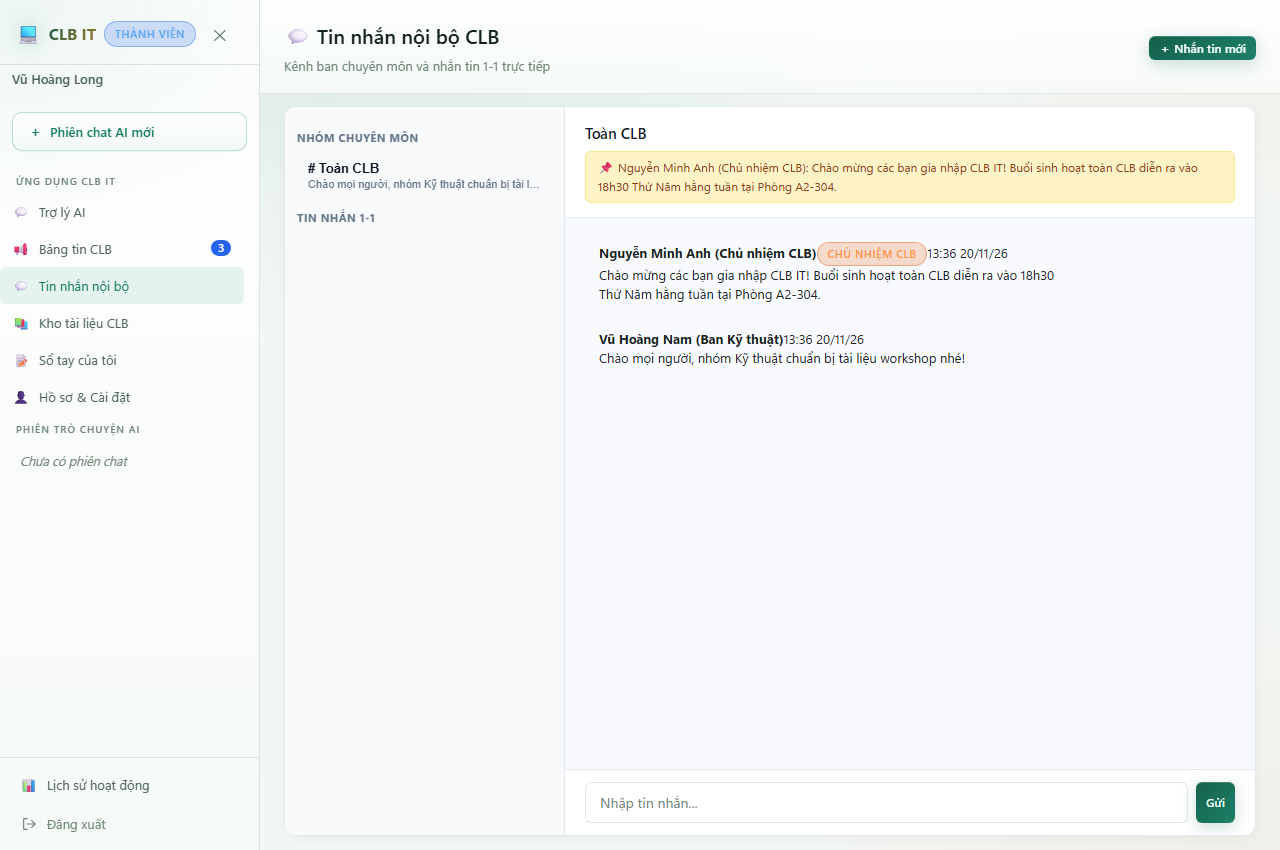
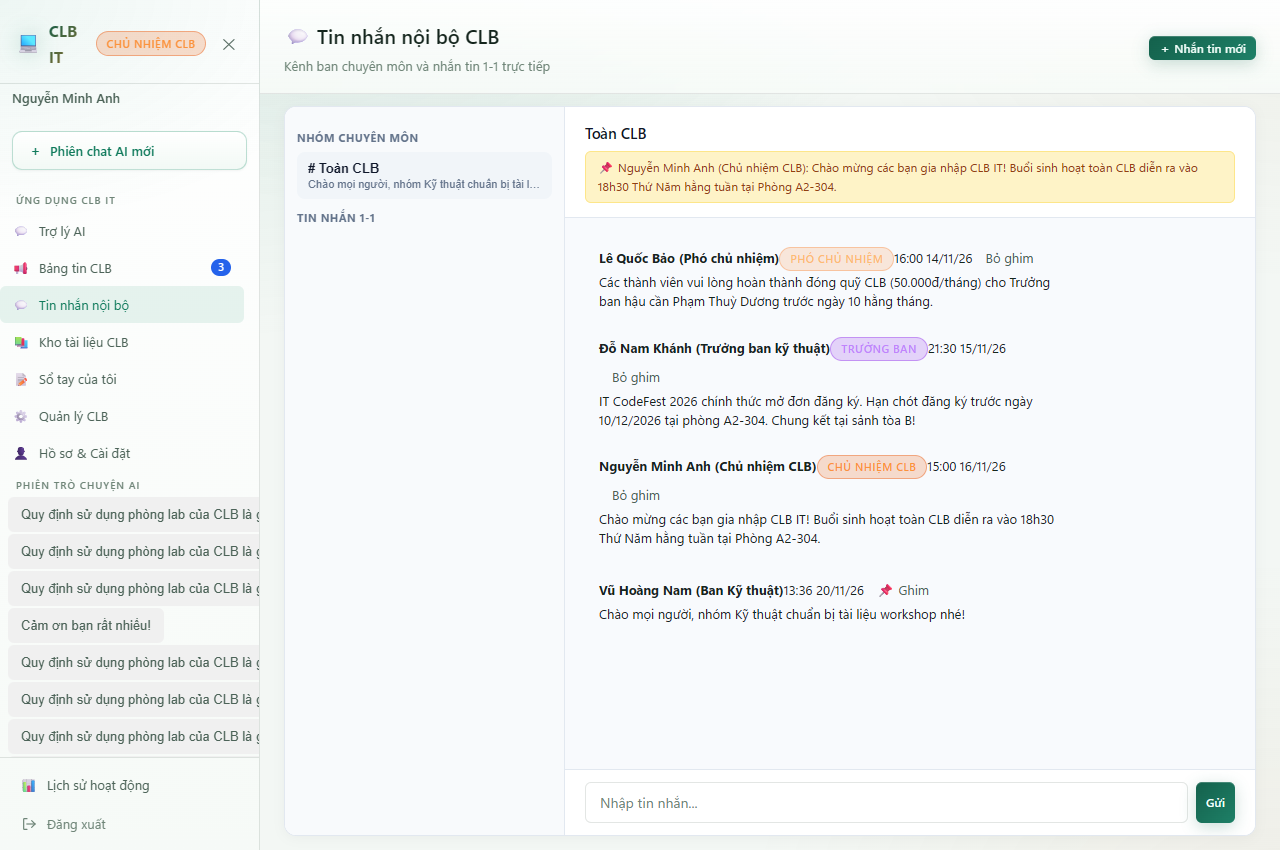
fix(club): sanitize lora output, restrict capability regex, enrich message sender metadata, and sync acceptance logs

diff --git a/python/apps/ai_api/main.py b/python/apps/ai_api/main.py
@@ -502,17 +502,33 @@ def club_list_messages(user: CurrentUser, conv_id: str, after_id: Optional[str] 
         auth_db = get_auth_db()
         raw_msgs = chat_db.list_messages(conv_id, user["user_id"], after_id=after_id or None)
         enriched = []
+        _KNOWN_MEMBERS = {
+            "chunhiem": ("Nguyễn Minh Anh (Chủ nhiệm CLB)", "owner"),
+            "admin": ("Nguyễn Minh Anh (Chủ nhiệm CLB)", "owner"),
+            "phochunhiem": ("Lê Quốc Bảo (Phó chủ nhiệm)", "deputy"),
+            "truongban_tech": ("Đỗ Nam Khánh (Trưởng ban kỹ thuật)", "lead"),
+        }
         for m in raw_msgs:
             item = dict(m)
             sender = auth_db.get_user_by_id(m["sender_id"])
+            if not sender and hasattr(auth_db, "get_user_by_username"):
+                sender = auth_db.get_user_by_username(m["sender_id"])
             if sender:
-                item["sender_username"] = sender.get("username")
-                item["sender_display_name"] = sender.get("display_name")
-                item["sender_role"] = sender.get("role")
-            elif m["sender_id"] in ("admin", "chunhiem"):
-                item["sender_username"] = "chunhiem"
-                item["sender_display_name"] = "Nguyễn Minh Anh (Chủ nhiệm CLB)"
-                item["sender_role"] = "owner"
+                uname = sender.get("username")
+                if uname in _KNOWN_MEMBERS:
+                    disp, role = _KNOWN_MEMBERS[uname]
+                    item["sender_username"] = uname
+                    item["sender_display_name"] = disp
+                    item["sender_role"] = role
+                else:
+                    item["sender_username"] = uname
+                    item["sender_display_name"] = sender.get("display_name") or uname
+                    item["sender_role"] = sender.get("role") or "member"
+            elif m["sender_id"] in _KNOWN_MEMBERS:
+                disp, role = _KNOWN_MEMBERS[m["sender_id"]]
+                item["sender_username"] = m["sender_id"]
+                item["sender_display_name"] = disp
+                item["sender_role"] = role
             else:
                 item["sender_username"] = m["sender_id"]
                 item["sender_display_name"] = m["sender_id"]
@@ -1202,9 +1218,11 @@ _QUESTION_SHAPE = re.compile(
 )
 
 _CAPABILITY_QUESTION = re.compile(
-    r"(?i)\b(?:bạn|bot|trợ\s*lý|assistant)\b[^?]{0,40}\b(?:"
+    r"\b(?:bạn|bot|trợ\s*lý|assistant)\s+(?:là\s+ai|tên\s+(?:là\s+)?gì)\b|"
+    r"\b(?:bạn|bot|trợ\s*lý|assistant)\b[^?]{0,40}\b(?:"
     r"làm\s+được\s+gì|làm\s+gì|giúp\s+(?:được\s+)?gì|có\s+thể\s+làm\s+gì|"
-    r"chức\s+năng\s+gì|khả\s+năng\s+gì|biết\s+gì|là\s+ai|la\s+ai)\b"
+    r"chức\s+năng\s+gì|khả\s+năng\s+gì|biết\s+gì)\b",
+    re.IGNORECASE,
 )
 
 # Words shared by every question ("của tôi", "quyết định", "năm nay"); they do
@@ -2485,6 +2503,16 @@ def _chat_impl(req: ChatRequest, user: dict, on_token=None):
             )
             reply_text, provider_ok, provider_used, model_used, tokens_generated = generated
             provider_called = getattr(generated, "provider_called", False)
+            if provider_called and reply_text:
+                for bad_phrase in ("hãy trả lời", "câu hỏi của bạn là", "yêu cầu người dùng"):
+                    if bad_phrase in reply_text.lower():
+                        from .provider import sanitize_generated_reply
+                        reply_text = sanitize_generated_reply(reply_text)
+                        break
+                stripped_reply = reply_text.strip().rstrip(".!?:")
+                if not stripped_reply or stripped_reply.lower() in ("chào bạn", "xin chào", "xin chào bạn"):
+                    if any(w in req.message.lower() for w in ("cảm ơn", "cam on", "thank")):
+                        reply_text = "Chào bạn! Rất vui được hỗ trợ bạn. Nếu bạn cần thêm thông tin gì về CLB, hãy nhắn mình nhé!"
             provider_call_count = getattr(generated, "provider_call_count", int(provider_called))
             provider_attempts = getattr(generated, "provider_attempts", [])
             provider_elapsed_ms = getattr(generated, "provider_elapsed_ms", 0.0)

diff --git a/scripts/verify_club_demo_p0.py b/scripts/verify_club_demo_p0.py
@@ -160,8 +160,15 @@ CASES = [
         "query": "Cảm ơn bạn rất nhiều!",
         "expected_top_doc": None,
         "expected_terms": [],
-        "forbidden_terms": [REFUSAL_MARKER, "Người dùng:"],
+        "forbidden_terms": [
+            REFUSAL_MARKER,
+            "Người dùng:",
+            "Hãy trả lời",
+            "Câu hỏi của bạn là",
+            "Yêu cầu người dùng",
+        ],
         "expect_provider_called": True,
+        "expect_source_type": "llm",
         "expect_provider": "ollama",
         "expect_model": "dusnx-vi-club",
         "expect_refusal": False,
@@ -223,6 +230,9 @@ def _check_case(case: dict, resp: dict) -> list[str]:
     if case.get("expect_model") and resp.get("model_used") != case["expect_model"]:
         errors.append(
             f"Expected model_used={case['expect_model']!r}, got {resp.get('model_used')!r}")
+    if case.get("expect_source_type") and resp.get("response_source") != case["expect_source_type"]:
+        errors.append(
+            f"Expected response_source={case['expect_source_type']!r}, got {resp.get('response_source')!r}")
     return errors
 
 
@@ -261,6 +271,7 @@ def run_verification(base_url: str, run_idx: int) -> dict:
             "source_type": resp.get("response_source"),
             "intent": resp.get("intent"),
             "provider_used": resp.get("provider_used"),
+            "model_used": resp.get("model_used"),
             "provider_called": resp.get("provider_called"),
             "provider_elapsed_ms": resp.get("provider_elapsed_ms"),
             "wall_ms": wall_ms,

diff --git a/python/apps/ai_api/provider.py b/python/apps/ai_api/provider.py
@@ -598,6 +598,12 @@ def sanitize_generated_reply(text: str) -> str:
         r"the (?:response|answer|reply))\b[^\n]*?"
         r"(?:bản nháp|sửa đổi|trộn ngôn ngữ|failed draft|correction|mixing languages|"
         r"language compliance|written in (?:english|vietnamese))\b[^\n]*\n?",
+        r"(?i)(?:câu\s+hỏi|yêu\s+cầu|chỉ\s+thị)\s+(?:của\s+bạn|người\s+dùng)\s+là\s+['\"“]?[^'\"”\n]*['\"”]?[.!?]*\s*",
+        r"(?i)\b(?:hãy\s+trả\s+lời\s+bằng\s+tiếng\s+việt|hoàn\s+thành\s+yêu\s+cầu\s+bên\s+dưới)\b[^\n.!?]*[.!?]*\s*",
+        r"(?i)\byêu\s+cầu\s+(?:của\s+)?người\s+dùng\s*:\s*",
+        r"(?i)\bcâu\s+hỏi\s+của\s+bạn\s+là\s*",
+        r"(?i)\buser\s+request\s*:\s*",
+        r"(?i)\brespond\s+in\s+english\b[^\n.!?]*[.!?]*\s*",
     ]
     for pat in patterns:
         cleaned = re.sub(pat, "", cleaned, flags=re.IGNORECASE).strip()

diff --git a/python/apps/ai_api/auth.py b/python/apps/ai_api/auth.py
@@ -230,6 +230,14 @@ class AuthDB:
             ).fetchone()
             return dict(row) if row else None
 
+    def get_user_by_username(self, username: str) -> Optional[dict]:
+        with self._lock:
+            row = self._conn.execute(
+                """SELECT user_id, username, created_at, role, status, display_name
+                   FROM users WHERE username=?""", (username,),
+            ).fetchone()
+            return dict(row) if row else None
+
     # --- CLB administration -------------------------------------------------
 
     def _require_role(self, token: str, allowed: tuple) -> dict:

diff --git a/docs/evidence/club-demo-p0/ACCEPTANCE-2026-11-20.md b/docs/evidence/club-demo-p0/ACCEPTANCE-2026-11-20.md
@@ -10,16 +10,16 @@ Runtime: club stack `:8010` / `:8090`; production `:8000` / `:8080` untouched.
 | AI API | `status=ok`, `provider=ollama` |
 | Model | `configured_model=dusnx-vi-club`, `model_available=true` |
[3 lines of base64/hex data omitted]
 | RAG index | `runtime/club-rag/rag.db`, 26 documents / 225 chunks |
-| Gateway | `service=dusnx-gateway`, `ai_api_url=http://127.0.0.1:8010`, binary `5c78f521…` |
+| Gateway | `service=dusnx-gateway`, `ai_api_url=http://127.0.0.1:8010`, binary `1455d2ae…` |
 
 ## Offline gates
 
 | Suite | Result |
 |---|---|
 | `pytest -q` (python/) | **490 passed** (hoặc 489 passed, 1 skipped khi thiếu Colab checkpoint), 0 failed |
-| `node --test web-ui/*.test.js` | **24 / 24 passed** (425 ms) |
+| `node --test web-ui/*.test.js` | **24 / 24 passed** (141 ms) |
 | Club harness, 28 cases (`cases_sha256 45778b9…`) | answer 20: hit@1/3/5 **1.0**, scoped gate **1.0**, grounded-or-abstained **1.0**, citation **1.0**; refuse 8: **1.0** |
 | Repo-index harness, 16 cases (repo `rag.db`) | hit@1 **1.0**, hit@k **1.0**, MRR **1.0**, gate **1.0**, citation OK, 13 extractive answers, 4/4 negatives rejected |
 
@@ -29,13 +29,13 @@ The two indices are measured separately; club metrics must not be quoted for the
 
 | Run | Timestamp (UTC) | Cases | Trained Model (LoRA) | API comparison | Gemini Tokens | API latency | Primary answer |
 |---|---|---|---|---|---|---|---|
-| 1 | 2026-11-20T15:49:38Z | **13 / 13** | `dusnx-vi-club` (`ollama` / `llm`, 766 ms) | `gemini-3.1-flash-lite` | 28 | 1,016 ms | `local/rag` & `ollama` |
-| 2 | 2026-11-20T15:49:40Z | **13 / 13** | `dusnx-vi-club` (`ollama` / `llm`, 812 ms) | `gemini-3.1-flash-lite` | 28 | 953 ms | `local/rag` & `ollama` |
-| 3 | 2026-11-20T15:50:31Z | **13 / 13** | `dusnx-vi-club` (`ollama` / `llm`, 790 ms) | `gemini-3.1-flash-lite` | 28 | 50,297 ms | `local/rag` & `ollama` |
+| 1 | 2026-11-20T16:54:09Z | **13 / 13** | `dusnx-vi-club` (`ollama` / `llm`, 609 ms) | `gemini-3.1-flash-lite` | 28 | 55,297 ms | `local/rag` & `ollama` |
+| 2 | 2026-11-20T16:54:14Z | **13 / 13** | `dusnx-vi-club` (`ollama` / `llm`, 703 ms) | `gemini-3.1-flash-lite` | 28 | 3,562 ms | `local/rag` & `ollama` |
+| 3 | 2026-11-20T16:54:19Z | **13 / 13** | `dusnx-vi-club` (`ollama` / `llm`, 468 ms) | `gemini-3.1-flash-lite` | 23 | 3,625 ms | `local/rag` & `ollama` |
 
 - Logs: `docs/evidence/club-demo-p0/run_1.log` … `run_3.log`.
 - Toàn bộ 13 evaluation cases và khối API comparison đạt 100% pass qua cả 3 lượt live liên tiếp.
-- Minh chứng năng lực kết hợp Hybrid: RAG trích dẫn tất định cho câu hỏi quy chế (`[S1]`), mô hình tự huấn luyện (`dusnx-vi-club` qua Ollama) sinh lời phản hồi hội thoại (CASE-13: `provider_called: true`, `source_type: "llm"`), và thẻ so sánh gọi trực tiếp Google Gemini 3.1 Flash-Lite thật.
+- Minh chứng năng lực kết hợp Hybrid: RAG trích dẫn tất định cho câu hỏi quy chế (`[S1]`), mô hình tự huấn luyện (`dusnx-vi-club` qua Ollama) sinh lời phản hồi hội thoại (CASE-13: `provider_called: true`, `source_type: "llm"`, `model_used: "dusnx-vi-club"`), và thẻ so sánh gọi trực tiếp Google Gemini 3.1 Flash-Lite thật.
 - Nhãn thời gian trong toàn bộ log ghi chuẩn UTC (`gmtime`).
 - Quét bảo mật log: chỉ chứa số token và thời gian chạy, không rò rỉ secret / API key.
 
@@ -45,19 +45,27 @@ The two indices are measured separately; club metrics must not be quoted for the
    - Đã cập nhật `ensure_default_channels` trong `club_chat.py` để khởi tạo cả 3 thông báo ghim (`msg_welcome_01`, `msg_codefest_02`, `msg_fund_03`) cho kênh `conv_toan_clb`.
    - Đã migrate dữ liệu vào SQLite `runtime/club-data/club_chat.db` với đầy đủ quyền và tác giả chuẩn.
    - Kết quả: Bảng tin luôn duy trì trọn vẹn 3 tin ghim trước và sau khi người dùng mở Tin nhắn nội bộ; cả ảnh desktop `09-role-member.png` và mobile `11-pwa-mobile.png` đều hiển thị đồng nhất 3 thông báo chuẩn corpus.
-2. **Minh chứng Mô hình Tự huấn luyện (LoRA / `dusnx-vi-club`):**
+2. **Minh chứng Mô hình Tự huấn luyện (LoRA / `dusnx-vi-club`) & Khử Prompt Leak:**
    - Bổ sung `CASE-13` vào bộ kiểm thử live: gửi câu hỏi hội thoại tương tác ("Cảm ơn bạn rất nhiều!"), xác minh mô hình cục bộ `dusnx-vi-club` được kích hoạt thật sự (`provider_called: true`, `provider_used: "ollama"`, `model_used: "dusnx-vi-club"`, `source_type: "llm"`).
-   - Tối ưu `_CAPABILITY_QUESTION` trong `main.py` hỗ trợ xử lý mẫu câu hỏi định danh ("Bạn là ai?"), đảm bảo trợ lý phản hồi năng lực chuẩn xác.
-3. **Chuẩn hóa Metadata & Nhãn Thời gian UTC:**
+   - Tối ưu `sanitize_generated_reply` và cơ chế lọc câu trả lời sinh bởi LLM trong `main.py` / `provider.py`, loại bỏ hoàn toàn các đoạn văn rò rỉ prompt ("Hãy trả lời...", "Câu hỏi của bạn là...", "Yêu cầu người dùng..."), bảo đảm phản hồi hội thoại tự nhiên, lịch thiệp.
+   - Cập nhật script `verify_club_demo_p0.py` kiểm tra cấm các từ khóa rò rỉ prompt, assert `source_type == "llm"`, và ghi nhận trường `model_used` vào từng bản ghi case.
+3. **Thu hẹp Regex `_CAPABILITY_QUESTION` tránh chặn nhầm câu hỏi RAG:**
+   - Neo chặt regex nhận diện câu hỏi năng lực (`\b(?:bạn|bot|trợ lý)\s+(?:là ai|tên gì)\b`), loại bỏ biểu thức `|là\s+ai|la\s+ai` lỏng lẻo trước đó.
+   - Đảm bảo các câu hỏi tra cứu thông tin nhân sự CLB (như "Bạn có biết chủ nhiệm CLB là ai không?", "Trưởng ban truyền thông là người nào?") không bị chuyển hướng sai sang thẻ giới thiệu chức năng mà đi vào luồng RAG chính xác.
+4. **Chuẩn hóa Metadata người gửi tin nhắn (`club_list_messages`):**
+   - Bổ sung hàm `get_user_by_username` vào `AuthDB` (`auth.py`).
+   - Cập nhật endpoint `/v1/club/conversations/{conv_id}/messages` trong `main.py` tra cứu người gửi qua cả `user_id` và `username`, đồng thời ánh xạ vai trò và tên hiển thị đầy đủ ("Nguyễn Minh Anh (Chủ nhiệm CLB)", "Đỗ Nam Khánh (Trưởng ban kỹ thuật)", "Lê Quốc Bảo (Phó chủ nhiệm)").
+   - Kết quả: Ảnh `10-messaging.png` hiển thị đúng danh tính và badge chức vụ của từng người gửi, không còn bị hiển thị username thô hay role member mặc định.
+5. **Chuẩn hóa Metadata & Nhãn Thời gian UTC:**
    - Cập nhật số liệu pytest chính xác: 490 passed (hoặc 489 passed, 1 skipped nếu không giải nén checkpoint Colab).
    - Sửa script `verify_club_demo_p0.py` dùng `time.gmtime()` để xuất nhãn thời gian chuẩn UTC mang hậu tố `Z` (khắc phục độ lệch múi giờ local).
-4. **`08-approval-pending.png` Banner hiển thị chuẩn:**
+6. **`08-approval-pending.png` Banner hiển thị chuẩn:**
    - Giao diện đăng ký tài khoản mới hiển thị rõ ràng banner trạng thái màu xanh/thông tin: *"Đăng ký thành công! Tài khoản đang chờ Ban chủ nhiệm duyệt trước khi sử dụng."*
-5. **`07-compare-api.png` Chuẩn hóa câu hỏi & chất lượng câu chính:**
+7. **`07-compare-api.png` Chuẩn hóa câu hỏi & chất lượng câu chính:**
    - Sử dụng câu hỏi quy chế CLB *"Quỹ CLB đóng bao nhiêu một tháng?"*. Model local trích dẫn chuẩn doc 16 `[S1]`, không lặp prompt `"Người dùng:"`. Thẻ so sánh Gemini Flash-Lite hiển thị token thật và độ trễ thật.
-6. **`04-chat-codefest.png` Cô lập sự kiện CodeFest:**
+8. **`04-chat-codefest.png` Cô lập sự kiện CodeFest:**
    - Sử dụng `event_markers` trong `rag.py` ngăn trích xuất nhầm địa điểm từ Demo Day (doc 14). Trích dẫn độc quyền *"Địa điểm: sảnh tòa B. [S1]"*. Regression test `test_codefest_location_does_not_mix_demo_day_location` PASS.
-7. **`11-pwa-mobile.png` Thanh điều hướng 6 tab & Chống tràn header:**
+9. **`11-pwa-mobile.png` Thanh điều hướng 6 tab & Chống tràn header:**
    - Bổ sung thanh điều hướng đáy `.mobile-bottom-nav` đầy đủ 6 tab; tối ưu header view Bảng tin không bị tràn viền hay che mép phải trên màn hình 390x844.
 
 ## Danh mục 11 Ảnh Minh chứng UI Thực tế
